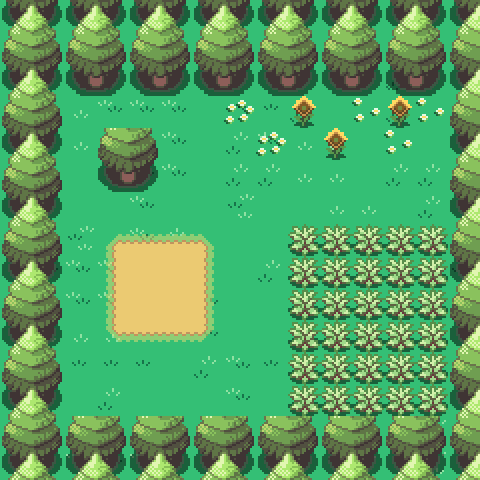
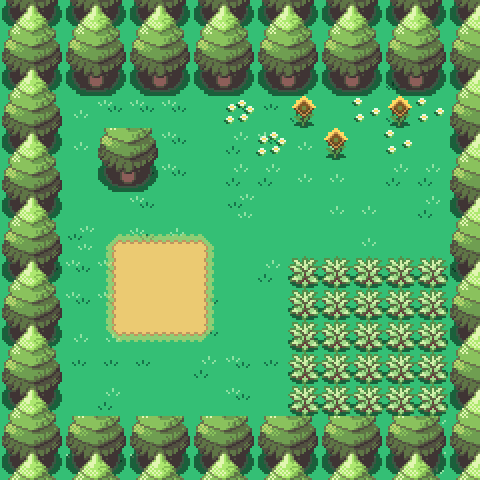
Added pokemon encounters logic.

Changed region(s): [[0.5938, 0.4688, 0.9375, 0.5312]]

diff --git a/modules/logic/main-game/space.js b/modules/logic/main-game/space.js
@@ -7,10 +7,15 @@ class SpaceInterface {
         this.canvasWidth = width * SIZE
         this.canvasHeight = height * SIZE
         this.collisionMap = [] // override
+        this.bushMap = [] // override; TODO: perhaps replace with general object map (0, 1, 2, 3...)
     }
 
     collides(x, y) {
-        return this.collisionMap[y][x] == 1 // TODO: check if x and y need to be swapped, e.g: [3][2]
+        return this.collisionMap[y][x] == 1
+    }
+
+    isBush(x, y) {
+        return this.bushMap[y][x] == 1
     }
 }
 
@@ -33,7 +38,25 @@ export class Outside extends SpaceInterface {
             [1, 1, 0, 0, 0, 0, 0, 0, 0, 0, 0, 0, 0, 0, 1],
             [1, 1, 0, 0, 0, 0, 0, 0, 0, 0, 0, 0, 0, 0, 1],
             [1, 1, 1, 1, 1, 1, 1, 1, 1, 1, 1, 1, 1, 1, 1],
-            [1, 1, 1, 1, 1, 1, 1, 1, 1, 1, 1, 1, 1, 1, 1],
+            [1, 1, 1, 1, 1, 1, 1, 1, 1, 1, 1, 1, 1, 1, 1]
+        ]
+
+        this.bushMap = [
+            [0, 0, 0, 0, 0, 0, 0, 0, 0, 0, 0, 0, 0, 0, 0],
+            [0, 0, 0, 0, 0, 0, 0, 0, 0, 0, 0, 0, 0, 0, 0],
+            [0, 0, 0, 0, 0, 0, 0, 0, 0, 0, 0, 0, 0, 0, 0],
+            [0, 0, 0, 0, 0, 0, 0, 0, 0, 0, 0, 0, 0, 0, 0],
+            [0, 0, 0, 0, 0, 0, 0, 0, 0, 0, 0, 0, 0, 0, 0],
+            [0, 0, 0, 0, 0, 0, 0, 0, 0, 0, 0, 0, 0, 0, 0],
+            [0, 0, 0, 0, 0, 0, 0, 0, 0, 0, 0, 0, 0, 0, 0],
+            [0, 0, 0, 0, 0, 0, 0, 0, 0, 1, 1, 1, 1, 1, 0],
+            [0, 0, 0, 0, 0, 0, 0, 0, 0, 1, 1, 1, 1, 1, 0],
+            [0, 0, 0, 0, 0, 0, 0, 0, 0, 1, 1, 1, 1, 1, 0],
+            [0, 0, 0, 0, 0, 0, 0, 0, 0, 1, 1, 1, 1, 1, 0],
+            [0, 0, 0, 0, 0, 0, 0, 0, 0, 1, 1, 1, 1, 1, 0],
+            [0, 0, 0, 0, 0, 0, 0, 0, 0, 1, 1, 1, 1, 1, 0],
+            [0, 0, 0, 0, 0, 0, 0, 0, 0, 0, 0, 0, 0, 0, 0],
+            [0, 0, 0, 0, 0, 0, 0, 0, 0, 0, 0, 0, 0, 0, 0],
         ]
     }
 }

diff --git a/modules/logic/main-game/movementHandler.js b/modules/logic/main-game/movementHandler.js
@@ -1,8 +1,11 @@
 import { Direction } from "./direction.js"
 import { MovementLock } from "../../time/lock.js"
+import { PokemonEncounter } from "./pokemonEncounter.js"
 
 let moveLock = new MovementLock()
+
 var coordinatesDisplay = document.getElementById("coordinatesDisplay")
+var bushDisplay = document.getElementById("bushDisplay")
 
 // Interface between Player and Outside
 export class MovementHandler { // TODO: decide whether class as a wrapper for static functions makes sense
@@ -28,6 +31,14 @@ export class MovementHandler { // TODO: decide whether class as a wrapper for st
         if (deltas != null && moveLock.isUnlocked(timestamp)) {
             this.movePlayer(player, outside, deltas)
             moveLock.lock(timestamp)
+
+            let playerIsInBush = outside.isBush(player.x, player.y)
+
+            if (playerIsInBush) {
+                PokemonEncounter.checkPokemonEncounter()
+            }
+
+            bushDisplay.textContent = `${playerIsInBush}`
         }
     
         coordinatesDisplay.textContent = `(${player.x},${player.y})`

diff --git a/modules/graphics/renderer.js b/modules/graphics/renderer.js
@@ -9,7 +9,7 @@ canvas.height = CANVAS_HEIGHT // CANVAS_HEIGHT
 
 function render(px, py) { // player x,y
     context.imageSmoothingEnabled = false
-    let [mapX, mapY] = calculateMapCoordinates(px, py) // TODO: improve performance
+    let [mapX, mapY] = calculateMapCoordinates(px, py)
 
     renderCanvasBackground(context) 
     renderMapBackground(context, mapX, mapY)
@@ -18,7 +18,7 @@ function render(px, py) { // player x,y
 }
 
 function calculateMapCoordinates(px, py) {
-    let mapX = -(px - NORMALIZE_X) * SIZE
+    let mapX = -(px - NORMALIZE_X) * SIZE // TODO: improve performance
     let mapY = -(py - NORMALIZE_Y) * SIZE
 
     return [mapX, mapY]

diff --git a/modules/logic/main-game/pokemonEncounter.js b/modules/logic/main-game/pokemonEncounter.js
@@ -1,0 +1,20 @@
+var encounterDisplay = document.getElementById("encounterDisplay")
+
+export class PokemonEncounter {
+    static encounterOccurs() {
+        let encounterProbability = 0.5
+
+        let threshold = encounterProbability * 10
+        let randomNumber = Math.floor(Math.random() * 10) + 1; // between 1 and 10
+        console.log(threshold)
+        return randomNumber <= threshold
+    }
+
+    static checkPokemonEncounter() {
+        if (this.encounterOccurs()) {
+            encounterDisplay.textContent = `true`
+        } else {
+            encounterDisplay.textContent = `false`
+        }
+    }
+}

diff --git a/main.html b/main.html
@@ -24,9 +24,15 @@
             <span>> Selected: </span>
             <span id="subMenuDisplay"></span>
             <br>
+            <span>In Bush: </span>
+            <span id="bushDisplay"></span>
+            <br>
+            <span>Pokemon encountered: </span>
+            <span id="encounterDisplay"></span>
+            <br>
             <span>Keyboard press: </span>
             <span id="inputDisplay"></span>
-
+            <br>
         </div>
     </div>
 </body>

diff --git a/modules/loaders/resourceLoader.js b/modules/loaders/resourceLoader.js
@@ -4,7 +4,11 @@ outsideImageBG.src = "./assets/map/default-map-background.png"
 let outsideImageFG = new Image()
 outsideImageFG.src = "./assets/map/default-map-foreground.png"
 
+let grassImageFG = new Image()
+grassImageFG.src = "./assets/background-sprites/grass-foreground.png"
+
 let characterSf = new Image()
 characterSf.src = "./assets/character-sprites/sf.png"
+
 
 export { outsideImageBG, outsideImageFG, characterSf}
